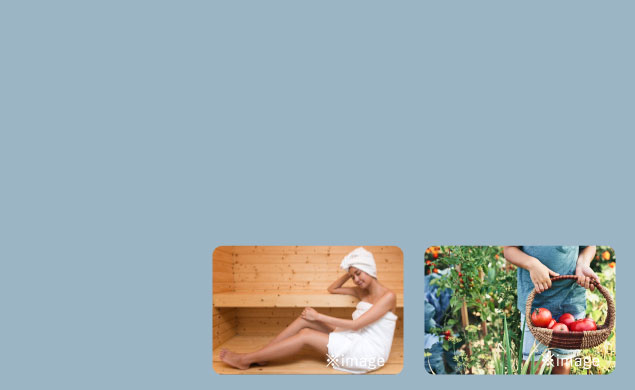
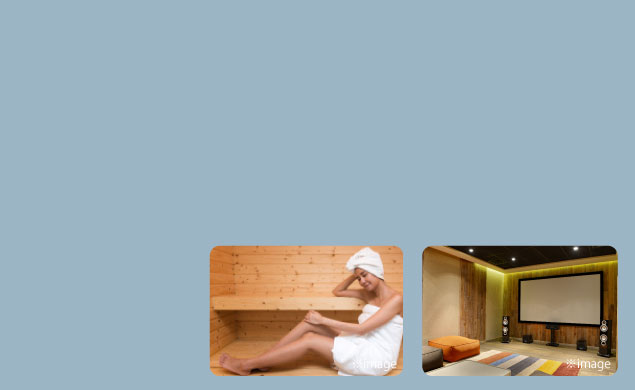
コンセプト > 修正
・画像変更
・順番修正

Changed region(s): [[0.3291, 0.6154, 0.9874, 0.9846]]

diff --git a/concept.html b/concept.html
@@ -380,64 +380,116 @@
                 <div class="c-contentsBox -concept-area03 w1100 w95s">
                     <ul class="c-flex -col2_2 -r -colorBox_lists">
                         <li class="a-flipRight -sc-40 pdt10 mgb5s">
-                            <!-- <div class="tb-pc"><br><br><br><br><br><br><br><br></div> -->
                             <div class="c-contents -imgBg box-r">
-                                <div class="imgBox"><img src="images/item/concept-area02-01.jpg"></div>
-                                <div class="c-contentsBox -concept-area03_item01">
-                                    <h3 class="s-L -b -left -white">AM 6:30～8:00 起床・散歩・朝食</h3>
-                                    <p  class="s-M -tw-n -left -white">
-                                        起きたら夫婦でワンちゃんの散歩へ行くのが日課。<br class="tb-pc">
-                                        帰ってきたらお庭の立水栓で、ワンちゃんの足を洗います。<br class="tb-pc">
-                                        移ろいを感じながら、スペシャルな時間を過ごす。<br class="tb-pc">
-                                        朝食を食べたら、夫婦はそれぞれのテレワークへ。
-                                    </p>
+                                <div class="sp">
+                                    <div class="imgBox"><img src="images/item/concept-area02-01.jpg"></div>
+                                    <div class="c-contentsBox -concept-area03_item01">
+                                        <h3 class="s-L -b -left -white">AM 6:30～8:00 起床・散歩・朝食</h3>
+                                        <p  class="s-M -tw-n -left -white">
+                                            起きたら夫婦でワンちゃんの散歩へ行くのが日課。<br class="tb-pc">
+                                            帰ってきたらお庭の立水栓で、ワンちゃんの足を洗います。<br class="tb-pc">
+                                            移ろいを感じながら、スペシャルな時間を過ごす。<br class="tb-pc">
+                                            朝食を食べたら、夫婦はそれぞれのテレワークへ。
+                                        </p>
+                                    </div>
+                                </div>
+                                <div class="tb-pc">
+                                    <div class="imgBox"><img src="images/item/concept-area02-02.jpg"></div>
+                                    <div class="c-contentsBox -concept-area03_item02">
+                                        <h3 class="s-L -b -left -white">AM 9:00～PM 5:00 昼食・仕事・夕食</h3>
+                                        <p  class="s-M -tw-n -left -white">
+                                            夫婦はそれぞれの書斎で、テレワーク勤務を始めます。<br class="tb-pc">
+                                            食事は簡単に済ませたい為、冷凍食品や簡単な料理のみ。<br class="tb-pc">
+                                            災害備蓄庫としても使える広々としたパントリーは、<br class="tb-pc">
+                                            食材や調味料の保管に便利。
+                                        </p>
+                                    </div>
                                 </div>
                             </div>
                         </li>
                         <li class="a-flipLeft -sc-40 mgb5s">
                             <div class="c-contents -imgBg box-r">
-                                <div class="imgBox"><img src="images/item/concept-area02-02.jpg"></div>
-                                <div class="c-contentsBox -concept-area03_item02">
-                                    <h3 class="s-L -b -left -white">AM 9:00～PM 5:00 昼食・仕事・夕食</h3>
-                                    <p  class="s-M -tw-n -left -white">
-                                        夫婦はそれぞれの書斎で、テレワーク勤務を始めます。<br class="tb-pc">
-                                        食事は簡単に済ませたい為、冷凍食品や簡単な料理のみ。<br class="tb-pc">
-                                        災害備蓄庫としても使える広々としたパントリーは、<br class="tb-pc">
-                                        食材や調味料の保管に便利。
-                                    </p>
+                                <div class="sp">
+                                    <div class="imgBox"><img src="images/item/concept-area02-02.jpg"></div>
+                                    <div class="c-contentsBox -concept-area03_item02">
+                                        <h3 class="s-L -b -left -white">AM 9:00～PM 5:00 昼食・仕事・夕食</h3>
+                                        <p  class="s-M -tw-n -left -white">
+                                            夫婦はそれぞれの書斎で、テレワーク勤務を始めます。<br class="tb-pc">
+                                            食事は簡単に済ませたい為、冷凍食品や簡単な料理のみ。<br class="tb-pc">
+                                            災害備蓄庫としても使える広々としたパントリーは、<br class="tb-pc">
+                                            食材や調味料の保管に便利。
+                                        </p>
+                                    </div>
+                                </div>
+                                <div class="tb-pc">
+                                    <div class="imgBox"><img src="images/item/concept-area02-01.jpg"></div>
+                                    <div class="c-contentsBox -concept-area03_item01">
+                                        <h3 class="s-L -b -left -white">AM 6:30～8:00 起床・散歩・朝食</h3>
+                                        <p  class="s-M -tw-n -left -white">
+                                            起きたら夫婦でワンちゃんの散歩へ行くのが日課。<br class="tb-pc">
+                                            帰ってきたらお庭の立水栓で、ワンちゃんの足を洗います。<br class="tb-pc">
+                                            移ろいを感じながら、スペシャルな時間を過ごす。<br class="tb-pc">
+                                            朝食を食べたら、夫婦はそれぞれのテレワークへ。
+                                        </p>
+                                    </div>
                                 </div>
                             </div>
-                            <!-- <div class="tb-pc"><br><br><br><br><br><br><br><br><br><br><br><br></div> -->
                         </li>
                         <li class="a-flipRight -sc-40 pdt10 mgb5s">
-                            <!-- <div class="tb-pc"><br><br><br><br><br><br><br><br></div> -->
                             <div class="c-contents -imgBg box-r">
-                                <div class="imgBox"><img src="images/item/concept-area02-03.jpg"></div>
-                                <div class="c-contentsBox -concept-area03_item03">
-                                    <h3 class="s-L -b -left -white">PM 7:00～PM 10:00 昼食・仕事・夕食</h3>
-                                    <p  class="s-M -tw-n -left -white">
-                                        夕食を終えたら、夫婦で“サ活”の時間。<br class="tb-pc">
-                                        インナーバルコニーでくつろいだら、寝る前にはシアタルームでNetflixのドラマ鑑賞。<br class="tb-pc">
-                                        夫婦の最近のブームは、『ストレンジャー・シングス』<br class="tb-pc">
-                                        早寝して、次の日の早朝お散歩に備えます。
-                                    </p>
+                                <div class="sp">
+                                    <div class="imgBox"><img src="images/item/concept-area02-03.jpg"></div>
+                                    <div class="c-contentsBox -concept-area03_item03">
+                                        <h3 class="s-L -b -left -white">PM 7:00～PM 10:00 昼食・仕事・夕食</h3>
+                                        <p  class="s-M -tw-n -left -white">
+                                            夕食を終えたら、夫婦で“サ活”の時間。<br class="tb-pc">
+                                            インナーバルコニーでくつろいだら、寝る前にはシアタルームでNetflixのドラマ鑑賞。<br class="tb-pc">
+                                            夫婦の最近のブームは、『ストレンジャー・シングス』<br class="tb-pc">
+                                            早寝して、次の日の早朝お散歩に備えます。
+                                        </p>
+                                    </div>
+                                </div>
+                                <div class="tb-pc">
+                                    <div class="imgBox"><img src="images/item/concept-area02-04.jpg"></div>
+                                    <div class="c-contentsBox -concept-area03_item04">
+                                        <h3 class="s-L -b -tw-n -left -white">休日の過ごし方</h3>
+                                        <p  class="s-M -tw-n -left -white">
+                                            お家から車で10分もあれば行ける<br>
+                                            『RENO_CAMP TORIYAMA』で、<br>
+                                            手ぶらキャンプを楽しみます。<br>
+                                            ワンちゃんも一緒に楽しめる施設なので、ぴったり！
+                                        </p>
+                                    </div>
                                 </div>
                             </div>
                         </li>
                         <li class="a-flipLeft -sc-40 ">
                             <div class="c-contents -imgBg box-r">
-                                <div class="imgBox"><img src="images/item/concept-area02-04.jpg"></div>
-                                <div class="c-contentsBox -concept-area03_item04">
-                                    <h3 class="s-L -b -tw-n -left -white">休日の過ごし方</h3>
-                                    <p  class="s-M -tw-n -left -white">
-                                        お家から車で10分もあれば行ける<br>
-                                        『RENO_CAMP TORIYAMA』で、<br>
-                                        手ぶらキャンプを楽しみます。<br>
-                                        ワンちゃんも一緒に楽しめる施設なので、ぴったり！
-                                    </p>
+                                <div class="sp">
+                                    <div class="imgBox"><img src="images/item/concept-area02-04.jpg"></div>
+                                    <div class="c-contentsBox -concept-area03_item04">
+                                        <h3 class="s-L -b -tw-n -left -white">休日の過ごし方</h3>
+                                        <p  class="s-M -tw-n -left -white">
+                                            お家から車で10分もあれば行ける<br>
+                                            『RENO_CAMP TORIYAMA』で、<br>
+                                            手ぶらキャンプを楽しみます。<br>
+                                            ワンちゃんも一緒に楽しめる施設なので、ぴったり！
+                                        </p>
+                                    </div>
+                                </div>
+                                <div class="tb-pc">
+                                    <div class="imgBox"><img src="images/item/concept-area02-03.jpg"></div>
+                                    <div class="c-contentsBox -concept-area03_item03">
+                                        <h3 class="s-L -b -left -white">PM 7:00～PM 10:00 昼食・仕事・夕食</h3>
+                                        <p  class="s-M -tw-n -left -white">
+                                            夕食を終えたら、夫婦で“サ活”の時間。<br class="tb-pc">
+                                            インナーバルコニーでくつろいだら、寝る前にはシアタルームでNetflixのドラマ鑑賞。<br class="tb-pc">
+                                            夫婦の最近のブームは、『ストレンジャー・シングス』<br class="tb-pc">
+                                            早寝して、次の日の早朝お散歩に備えます。
+                                        </p>
+                                    </div>
                                 </div>
                             </div>
-                            <!-- <div class="tb-pc"><br><br><br><br><br><br><br><br><br><br><br><br></div> -->
                         </li>
                     </ul>
                 </div>
